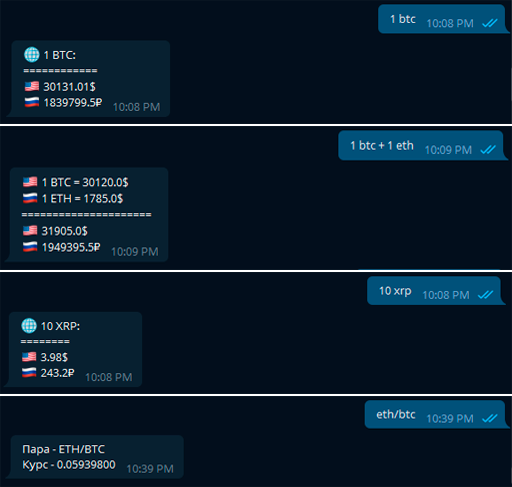
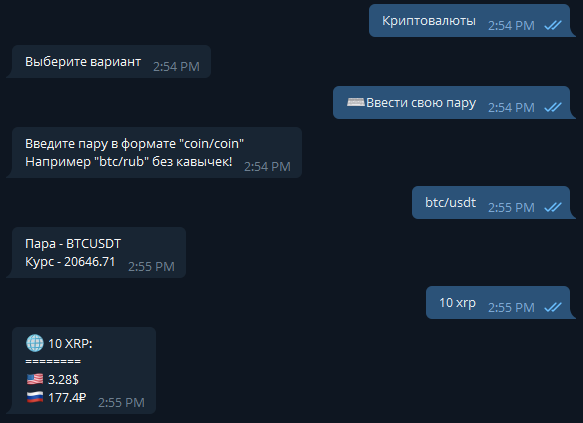
Add files via upload

diff --git a/main.py b/main.py
@@ -250,8 +250,7 @@ async def first_test_state_case_met(message: types.Message):
         keyboard.add(*[types.KeyboardButton(name) for name in
                        ['➕ Добавить пару', '➖ Удалить пару', 'Мои пары', '🏠Меню']])
         await state.set_state(TestStates.all()[4])
-        text = 'Выберите вариант' + str(message.chat.id)
-        await message.reply(text,
+        await message.reply('Выберите вариант',
                             reply=False,
                             reply_markup=keyboard)
 
@@ -338,7 +337,7 @@ async def second_test_state_case_met(message: types.Message):
 
     state = dp.current_state(user=message.from_user.id)
 
-    if message.text == '➕ Добавить пару':
+    if message.text == '➕ Добавить монету':
         keyboard = await menu_add()
         await message.reply('Введите монету, которую хотите добавить в портфель.\n'
                             'Например, "btc" без кавычек.',
@@ -346,7 +345,7 @@ async def second_test_state_case_met(message: types.Message):
                             reply_markup=keyboard)
         await state.set_state(TestStates.all()[5])
 
-    elif message.text == '➖ Удалить пару':
+    elif message.text == '➖ Удалить монету':
         try:
             curs.execute(f"SELECT pair_name from users where chat_id = {message.chat.id}")
             checks = curs.fetchall()
@@ -359,7 +358,7 @@ async def second_test_state_case_met(message: types.Message):
             checks = curs.fetchall()
 
         if len(checks) < 1:
-            text = 'Вы еще не добавили ни одной пары!\n' \
+            text = 'Вы еще не добавили ни одной монеты!\n' \
                    'Воспользуйтесь кнопками, чтобы добавить!'
             keyboard = None
 
@@ -382,7 +381,7 @@ async def second_test_state_case_met(message: types.Message):
                                reply_markup=keyboard,
                                parse_mode=ParseMode.MARKDOWN)
 
-    elif message.text == 'Мои пары':
+    elif message.text == 'Мои монеты':
         text = await view_portf(message)
         await message.reply(text,
                             reply=False,
@@ -411,7 +410,7 @@ async def second_test_state_case_met(message: types.Message):
             await state.set_state(TestStates.all()[6])
 
         else:
-            await message.reply('Эта пара уже добавлена вами, введите другую!\n',
+            await message.reply('Эта монета уже добавлена вами, введите другую!\n',
                                 reply=False,
                                 reply_markup=keyboard)
 
@@ -443,7 +442,7 @@ async def second_test_state_case_met(message: types.Message):
                 curs.execute(insert_query)
                 conn.commit()
             keyboard.add(*[types.KeyboardButton(name) for name in
-                           ['➕ Добавить пару', '➖ Удалить пару', 'Мои пары', '🏠Меню']])
+                           ['➕ Добавить монету', '➖ Удалить монету', 'Мои монеты', '🏠Меню']])
             await state.set_state(TestStates.all()[4])
             text = 'ура\n' \
                    'Выберите вариант' + str(message.chat.id)
@@ -484,7 +483,7 @@ async def second_test_state_case_met(message: types.Message):
             keyboard.add(*[types.KeyboardButton(name) for name in
                            ['Гос. валюты', 'Криптовалюты', '💼 Портфель']])
             await bot.send_message(message.chat.id,
-                                   f'Пара {message.text.upper()} была удалена, возвращаемся в меню!\n\n'
+                                   f'Монета *{message.text.upper()}* была удалена, возвращаемся в меню!\n\n'
                                    f'Выберите вариант.',
                                    reply_markup=keyboard)
             await state.set_state(TestStates.all()[1])
@@ -496,7 +495,7 @@ async def second_test_state_case_met(message: types.Message):
 
     else:
         await bot.send_message(message.chat.id,
-                               'Выбрана несуществующая пара, воспользуйтесь кнопками!')
+                               'Выбрана несуществующая монета, воспользуйтесь кнопками!')
 
 
 # @dp.message_handler(state=TestStates.TEST_STATE_8)
@@ -521,11 +520,11 @@ async def second_test_state_case_met(message: types.Message):
                                        await print_price(price))
             except:
                 await bot.send_message(message.chat.id,
-                                       '_Пара не найдена, проверьте правильность написания!_',
+                                       'Монета не найдена, проверьте правильность написания!_',
                                        parse_mode=ParseMode.MARKDOWN)
         else:
             await bot.send_message(message.chat.id,
-                                   '_Пара не найдена, проверьте правильность написания!_',
+                                   'Монета не найдена, проверьте правильность написания!_',
                                    parse_mode=ParseMode.MARKDOWN)
 
     elif message.text[0].isdigit():
